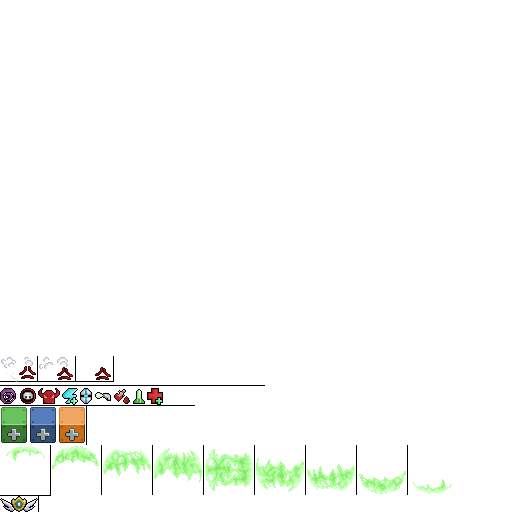
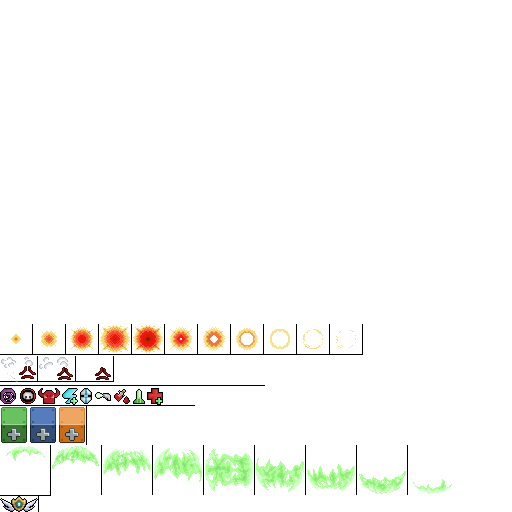
[wrk]

Changed region(s): [[0.0, 0.625, 0.625, 0.6875]]

diff --git a/opengltest/Barrage.cpp b/opengltest/Barrage.cpp
@@ -7,6 +7,23 @@ Barrage::Barrage(Entity* own, float cd, float pR, float tSize,  float tduration)
 	size = tSize;
 	damage = own->getDamage();
 	duration = tduration;
+
+
+
+	icon = new Sprite;
+	aSprite = new Sprite;
+	Barrage::animDrawn = false;
+	icon->sheet = itemSheet->sheet;
+	icon->setNumberOfAnimations(1);
+	icon->setCurrentAnimation(0);
+	icon->setSpriteFrameSize(22, 19);
+	icon->addSpriteAnimFrame(0, 38, 107);
+
+	aSprite->sheet = itemSheet->sheet;
+	aSprite->setNumberOfAnimations(1);
+	aSprite->setCurrentAnimation(0);
+	aSprite->setSpriteFrameSize(37, 25);
+	aSprite->addSpriteAnimRow(0, -38, 131, 38, 0, 2);
 }
 
 
@@ -27,21 +44,13 @@ Update(float dTime)
 void Barrage::
 Activate()
 {
-	icon = new Sprite;
-	aSprite = new Sprite;
-	icon->sheet = itemSheet->sheet;
-	icon->setNumberOfAnimations(1);
-	icon->setCurrentAnimation(0);
-	icon->setSpriteFrameSize(16, 16);
-	icon->addSpriteAnimFrame(0, 20, 108);
-	//PUT STUFF HERE
+
 }
 
 
+/*
 
-
-void Barrage::
-OnHit(int projectileID)
+void Barrage::OnHit(int projectileID)
 {
 	if (nextShot = true)
 	{
@@ -59,7 +68,7 @@ OnHit(int projectileID)
 		}
 	}
 }
- 
+ */
 
 void Barrage::
 OnHit(vec2 location)
@@ -82,17 +91,18 @@ OnHit(vec2 location)
 
 void Barrage::
 OnFire()
-{/*
+{
 	if (nextShot = true)
 	{
 		nextShot = false;
 		cooldown = maxCooldown;
 		float dirX = owner->GetDirection().x;
 		float dirY = owner->GetDirection().y;
-		ProjectileManager::instance()->CreateProjectile(66, (owner->GetLocationX), (owner->getLocationY), dirX, dirY, damage, duration, 0, owner->GetIndex());
+	
+	//	ProjectileManager::instance()->CreateProjectile(66, (locX - i), (locY - j), 0, 0, damage, ProjDuration, 0, owner->GetIndex());
 
 	}
-	*/
+	
 }
 
 

diff --git a/opengltest/Grenade.cpp b/opengltest/Grenade.cpp
@@ -1,0 +1,72 @@
+#include "Grenade.h"
+
+
+Grenade::Grenade(Entity* own, float cd, float pR, float tdamage) : Item(own, cd, pR)
+{
+	damage = tdamage;
+	ready = true;
+
+	
+
+	icon = new Sprite;
+	aSprite = new Sprite;
+	Grenade::animDrawn = false;
+	icon->sheet = itemSheet->sheet;
+	icon->setNumberOfAnimations(1);
+	icon->setCurrentAnimation(0);
+	icon->setSpriteFrameSize(15, 17);
+	icon->addSpriteAnimFrame(0, 80, 107);
+
+	aSprite->sheet = itemSheet->sheet;
+	aSprite->setNumberOfAnimations(11);
+	aSprite->setCurrentAnimation(0);
+	aSprite->setSpriteFrameSize(32, 30);
+	aSprite->addSpriteAnimRow(0, -32, 158, 33, 0, 11);
+
+}
+
+
+void Grenade::OnHit(vec2 location)
+{
+	if ( ready)
+	{
+		for (int i = -2; i < 2; i++)
+		{
+			for (int j = -2; j < 2; j++)
+			{
+				ProjectileManager::instance()->CreateProjectile(69, location.x + i, location.y + j, 0, 0, damage, duration, 0, owner->GetIndex());
+				aSprite->setPosition(location.x, location.y);
+			}
+		}
+	}
+}
+
+
+void Grenade::Update(float dTime)
+{
+	cooldown--;
+	if (cooldown <= 0)
+		ready = true;
+
+
+	checks();
+}
+
+void Grenade::checks()
+{
+	if (cooldown < 0)
+		cooldown = 0;
+	
+}
+
+
+
+
+void Grenade::DrawAnim()
+{
+	if (!Grenade::animDrawn && activated)
+	{
+		aSprite->draw(0.5);
+		Grenade::animDrawn = true;
+	}
+}

diff --git a/opengltest/Grenade.h b/opengltest/Grenade.h
@@ -1,0 +1,34 @@
+#include "Entity.h"
+
+
+
+class Grenade :public Item
+{
+public:
+	Grenade(Entity* own, float cd, float pR, float damage);
+	void Activate();
+	void Update(float dTime);
+	 void OnHit(vec2 location);
+	void DrawItem(int i);
+	void DrawAnim();
+	static Sprite* itemSheet;
+	void checks();
+
+
+protected:
+	float cooldown, procRate, maxCooldown, anim;
+	bool activated;
+	Sprite* icon;
+	Sprite* aSprite;
+	Entity* owner;
+	bool animDrawn;
+	float duration;
+	float maxDuration;
+
+	float damage;
+	bool ready;
+
+
+
+
+};

diff --git a/opengltest/Barrage.h b/opengltest/Barrage.h
@@ -5,7 +5,7 @@ class Barrage : public Item
 {
 public:
 	Barrage(Entity* own, float cd, float pR, float tSize,  float tduration);
-	void OnHit(int projectileID);
+	//void OnHit(int projectileID);
 	void OnHit(vec2 location);
 	void Activate();
 	void Update(float dTime);
@@ -18,6 +18,7 @@ private:
 	float damage;
 	float duration;
 	bool nextShot;
+	bool animDrawn;
 
 
 };
